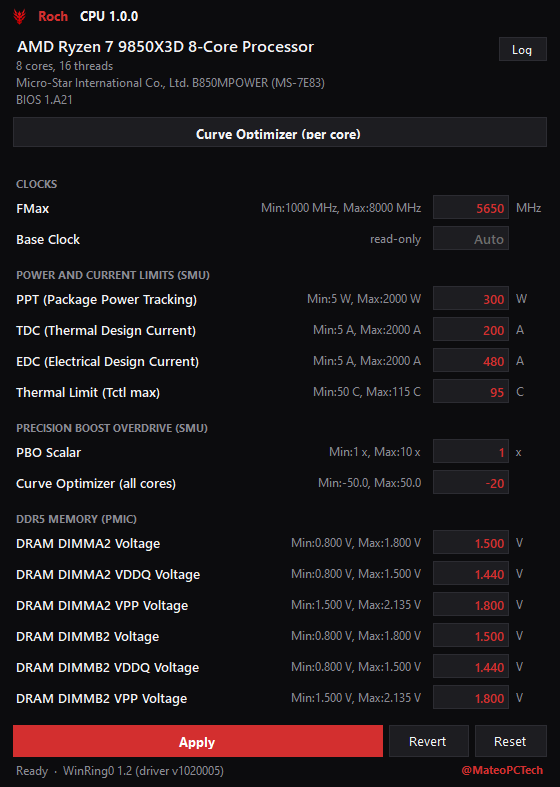
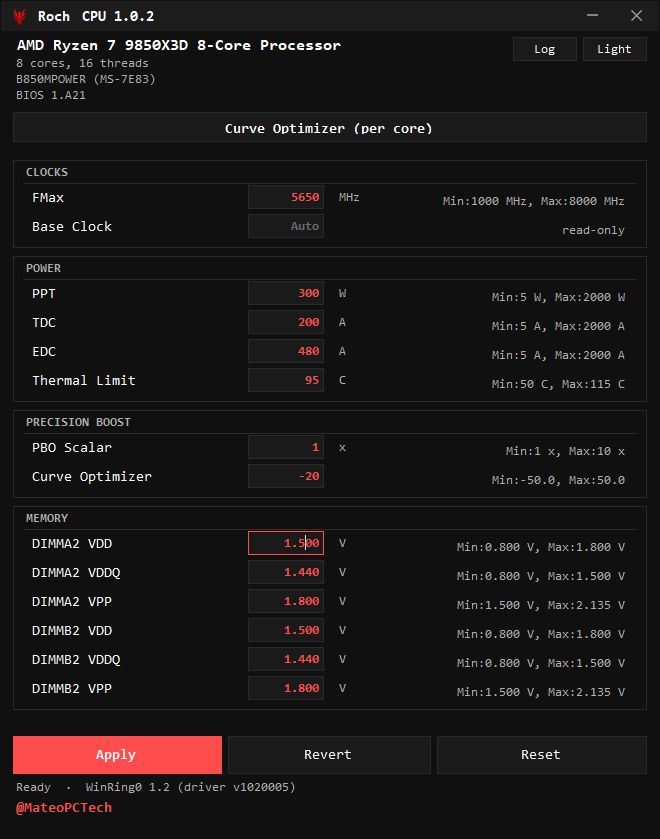
Refresh AMD screenshots for current UI

diff --git a/README.md b/README.md
@@ -31,7 +31,7 @@ Controls vary by processor, motherboard, BIOS and driver access. Optional [PawnI
   <img src="screenshot-amd.png" alt="Roch CPU AMD Ryzen tuning controls" width="360">
 </p>
 
-Intel and AMD examples from earlier builds. Version 1.0.2 uses the updated grouped layout and adds light mode; available rows still follow the detected hardware.
+Left: Intel example from an earlier build. Right: Roch CPU 1.0.2 on an AMD Ryzen 7 9850X3D, showing the current grouped layout. Available rows follow the detected hardware. Displayed settings are examples, not tuning recommendations.
 
 ## Build the latest source
 
